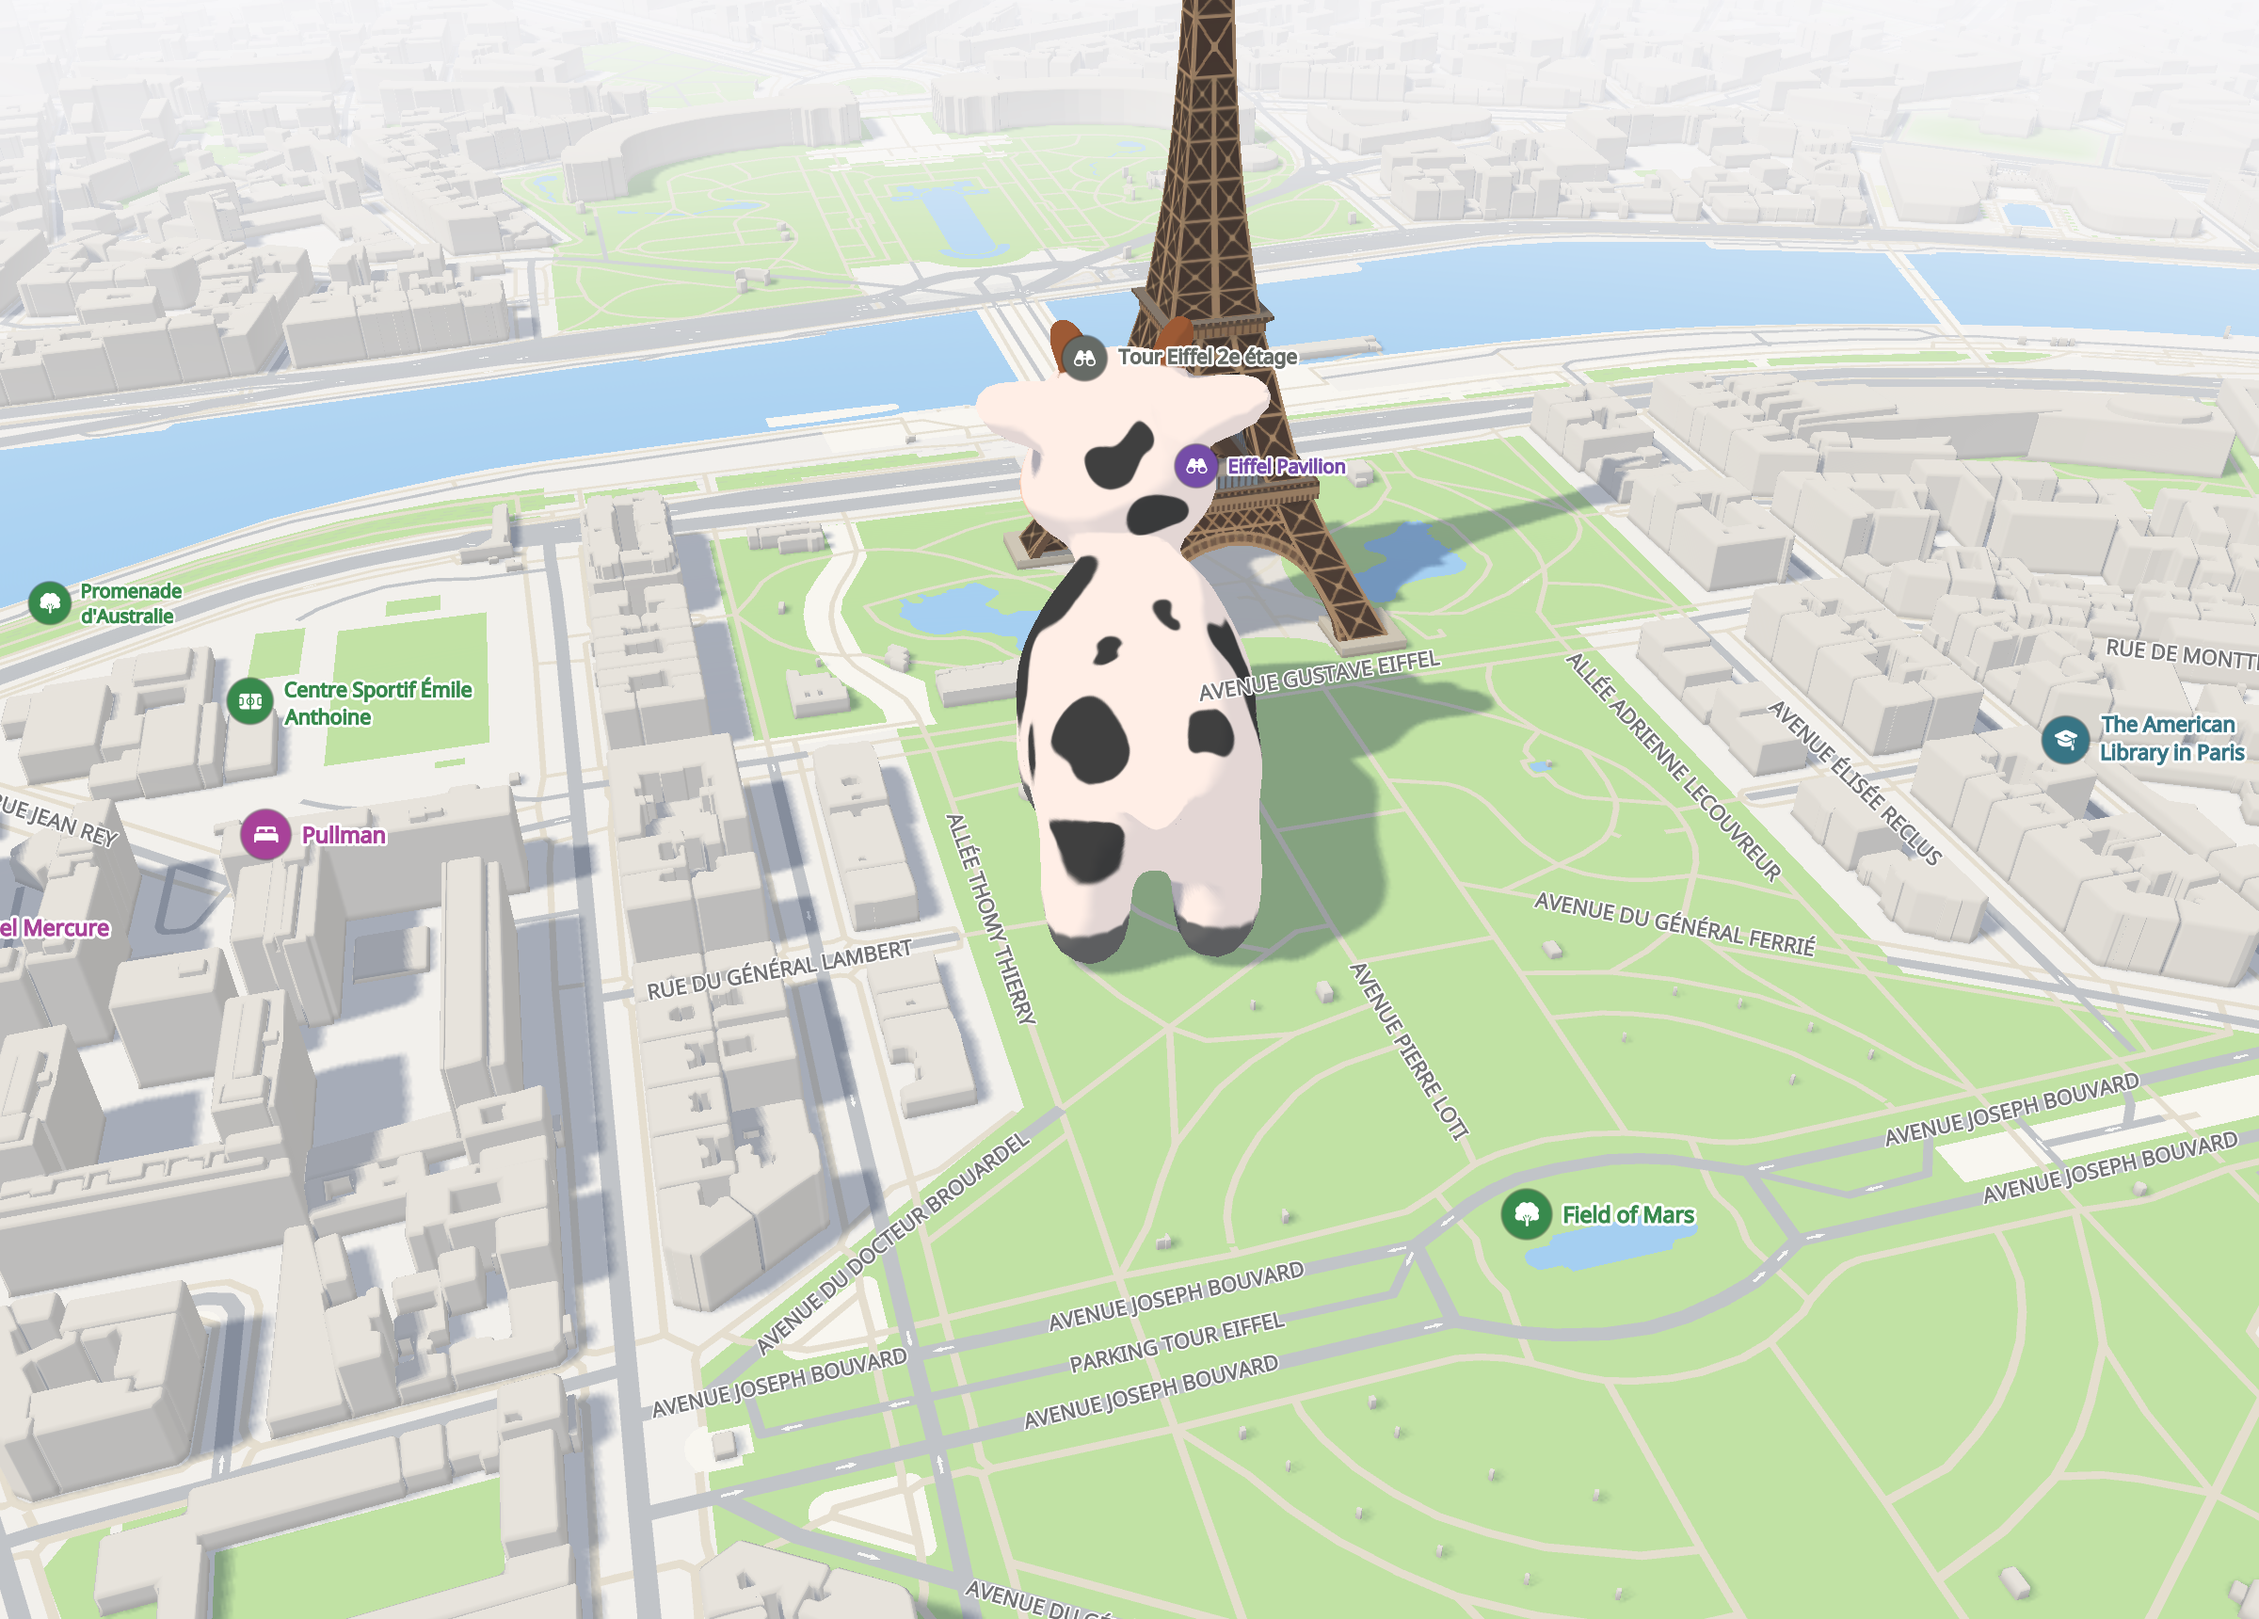
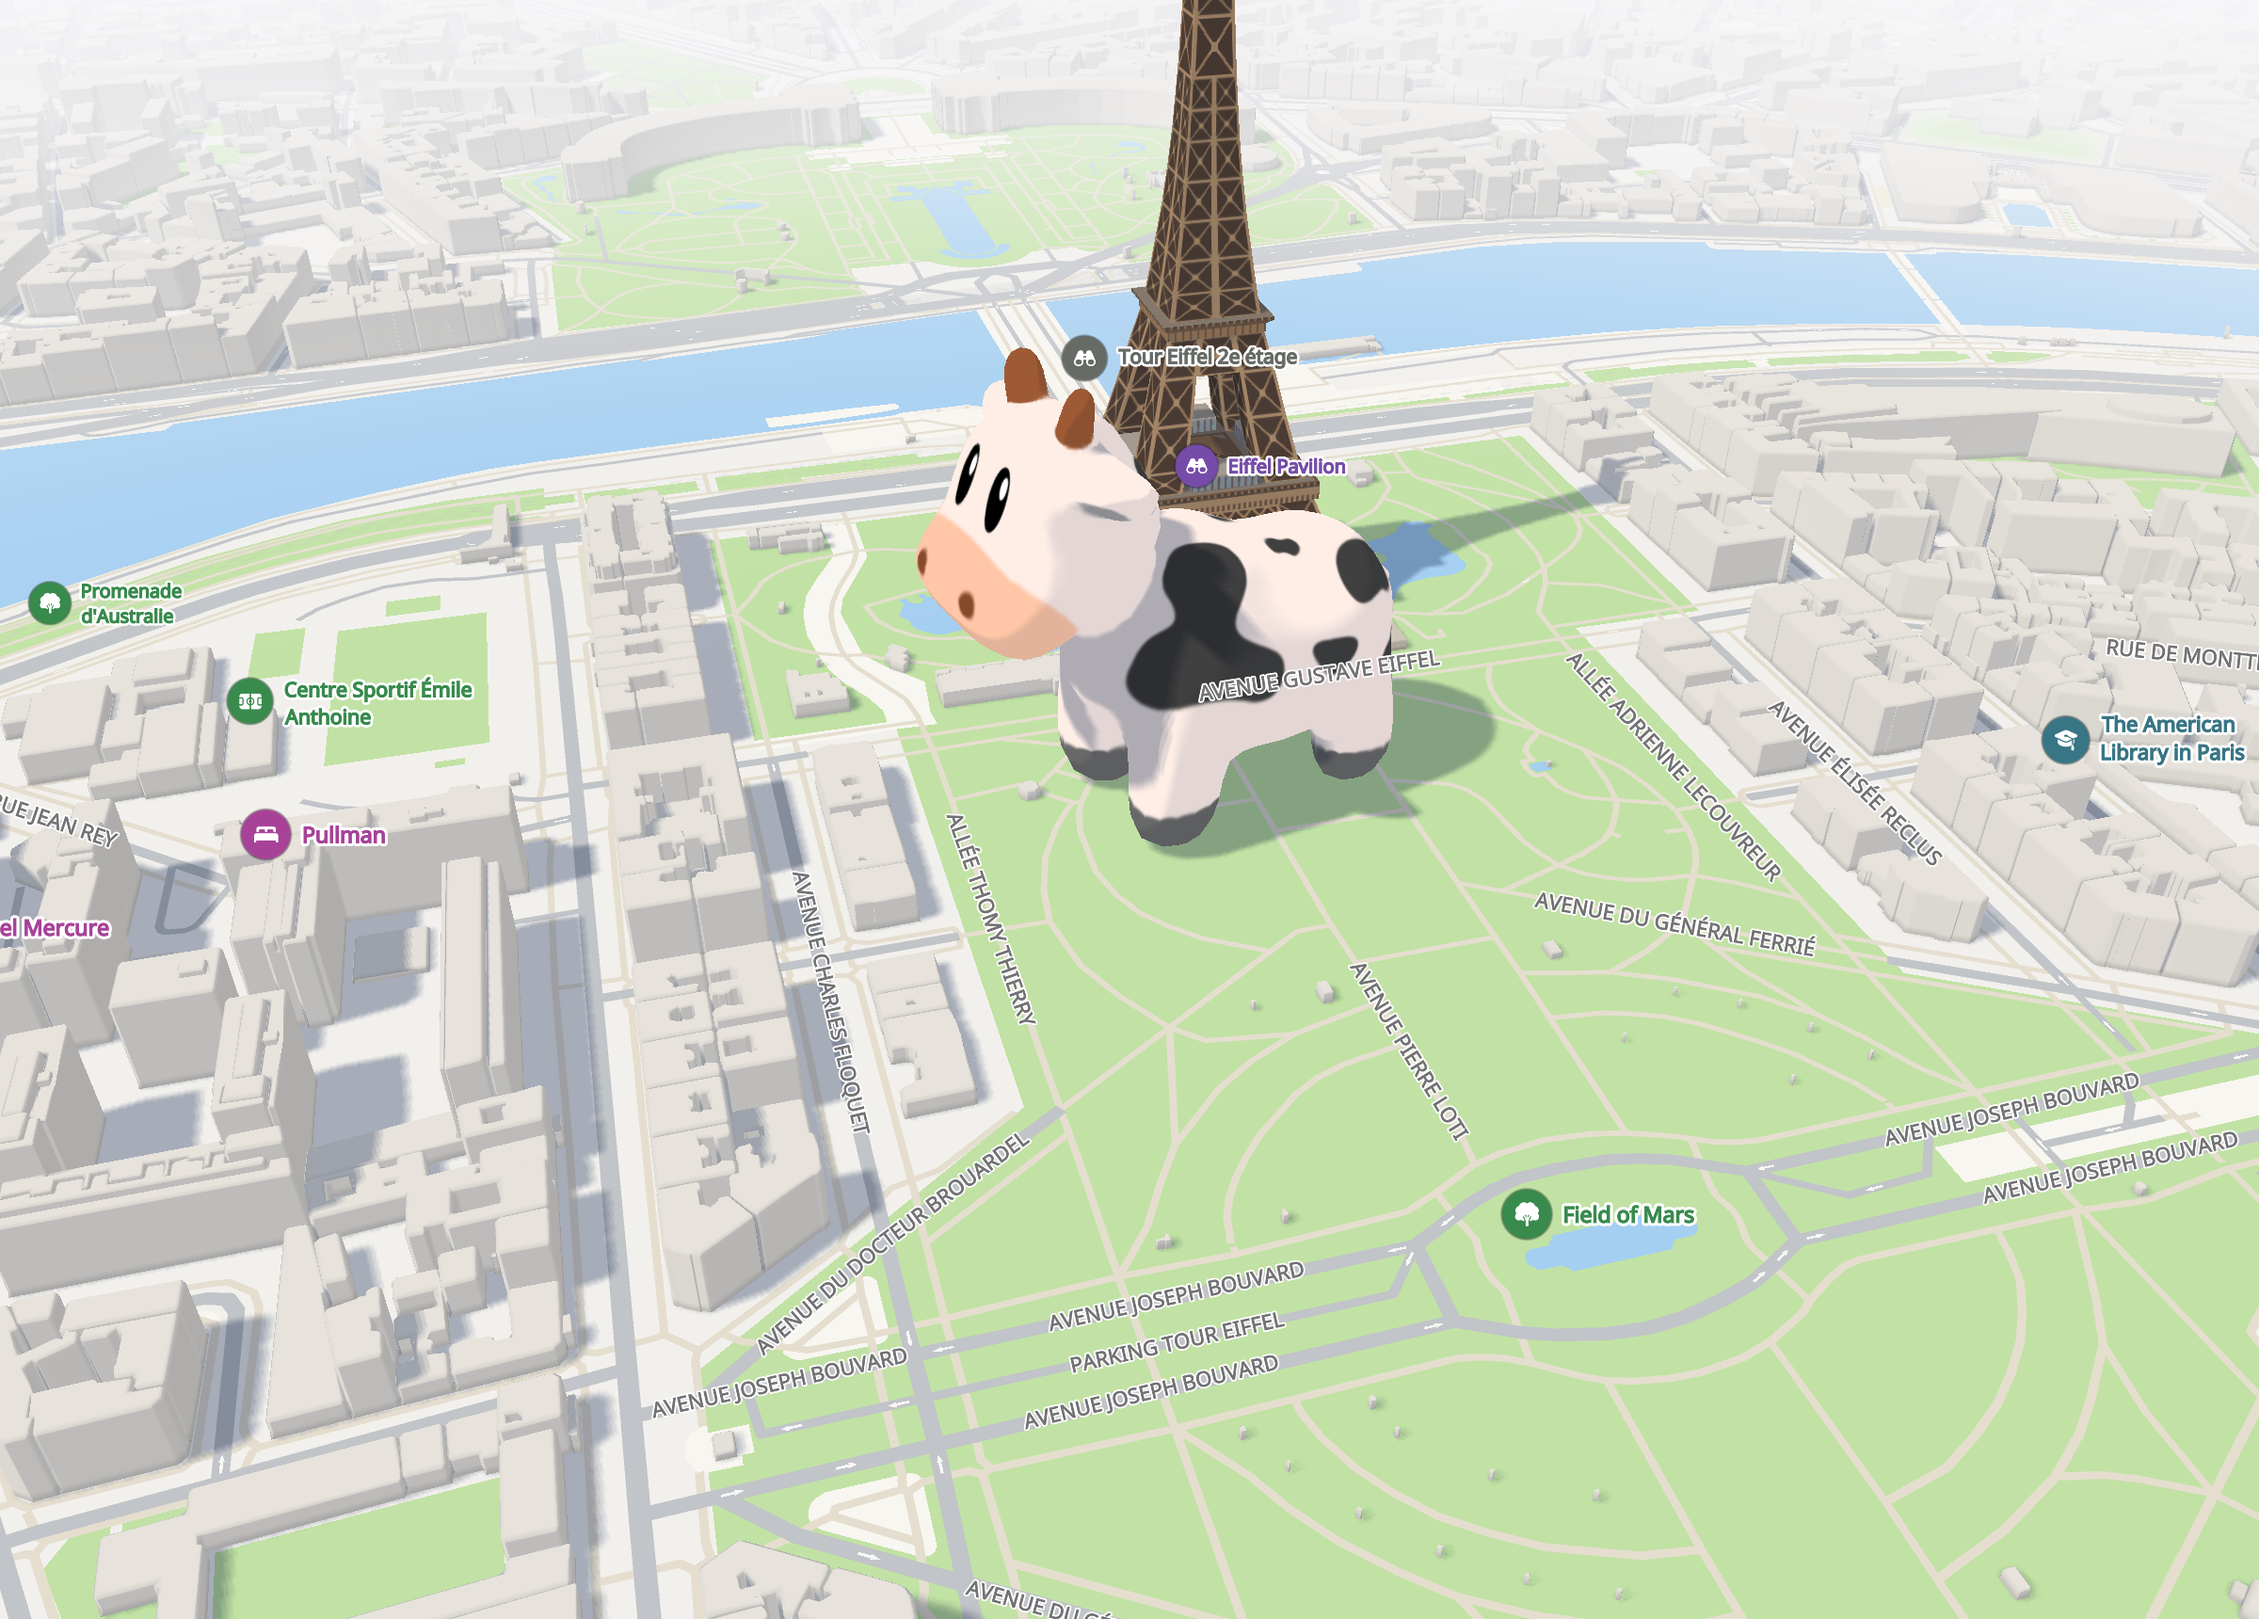
the cow faces the camera, in the README frame and in the scene models example
The model faces north at heading 0, so a cow placed for a camera faces
its bearing plus a half turn: 210 in the README frame, 203 by the Eiffel
Tower and 191 in Seoul in the example.

Changed region(s): [[0.4062, 0.1849, 0.6875, 0.6163], [0.2812, 0.5547, 0.4062, 0.6779], [0.375, 0.6779, 0.4062, 0.7087]]

diff --git a/Examples/macOS/ImmersiveMapSceneModelsMac/ImmersiveMapSceneModelsMac/DemoSceneModels.swift b/Examples/macOS/ImmersiveMapSceneModelsMac/ImmersiveMapSceneModelsMac/DemoSceneModels.swift
@@ -23,11 +23,13 @@ enum DemoSceneModels {
             return []
         }
         return [
-            // A landmark-sized cow by the Eiffel Tower.
+            // A landmark-sized cow by the Eiffel Tower, facing the camera
+            // the app starts with (its bearing plus a half turn: the
+            // model faces north at heading 0).
             ImmersiveMapSceneModel(id: spotByTheEiffelTower,
                                    source: spot,
                                    coordinate: paris,
-                                   headingDegrees: -35,
+                                   headingDegrees: 203,
                                    fitDiameterMeters: 160),
             // Her sister flying over Paris: exercises altitude and pitch.
             ImmersiveMapSceneModel(id: spotOverParis,
@@ -43,7 +45,7 @@ enum DemoSceneModels {
             ImmersiveMapSceneModel(id: spotInSeoul,
                                    source: spot,
                                    coordinate: seoul,
-                                   headingDegrees: 30,
+                                   headingDegrees: 191,
                                    fitDiameterMeters: 220),
         ]
     }
